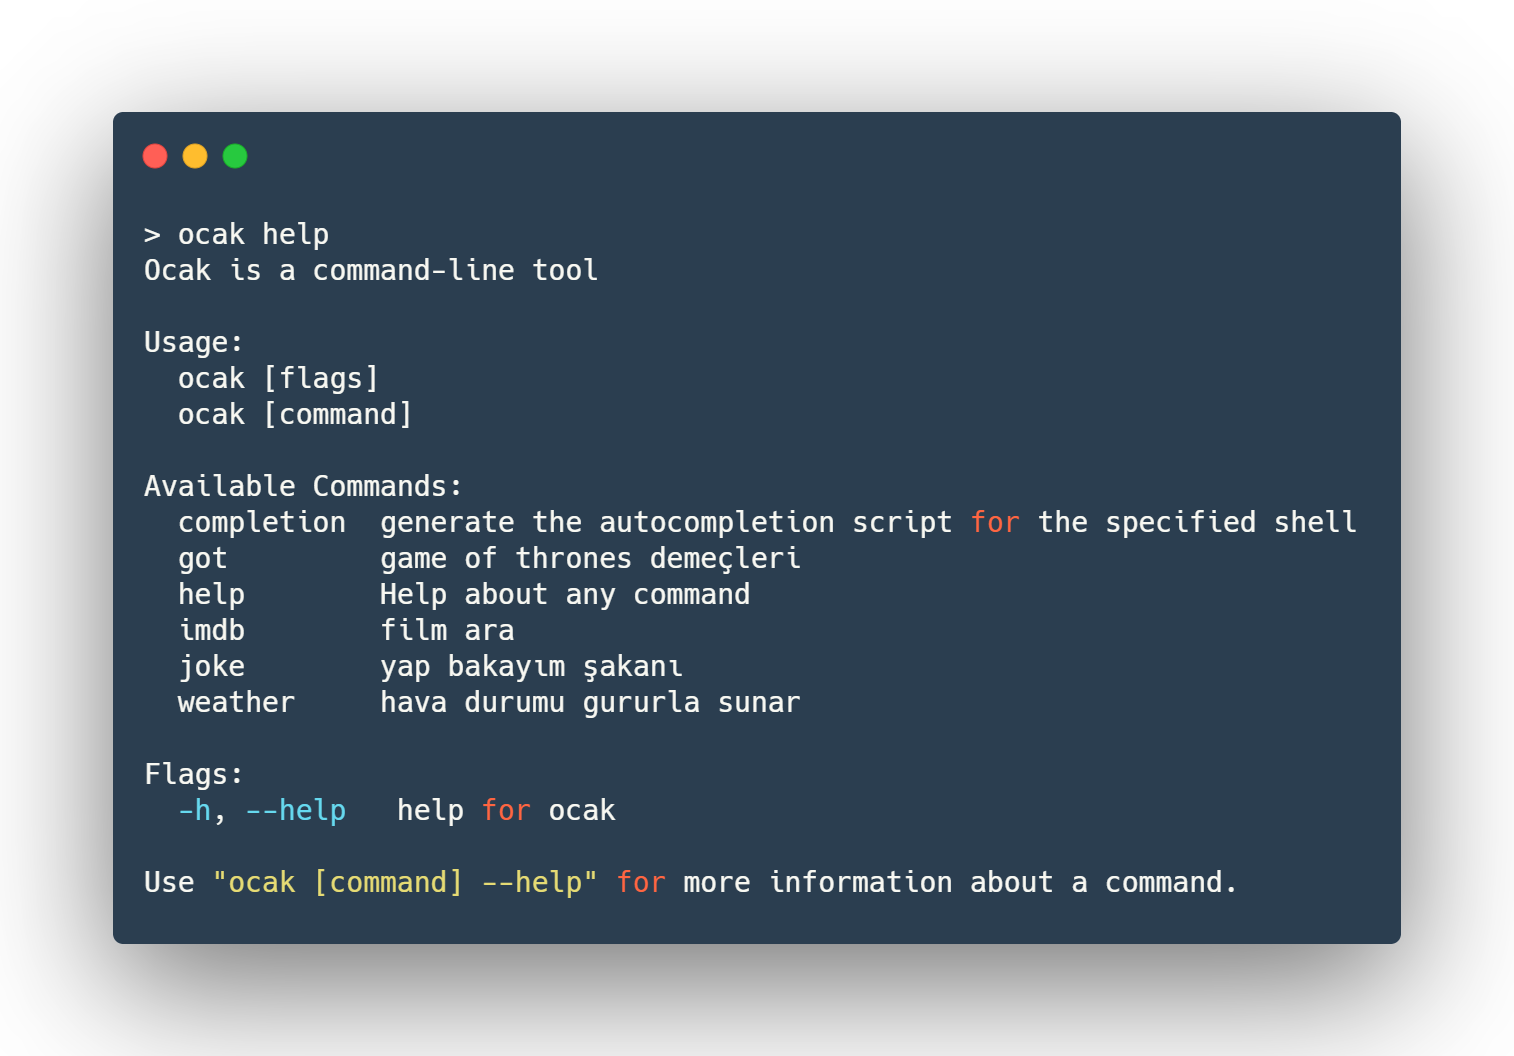
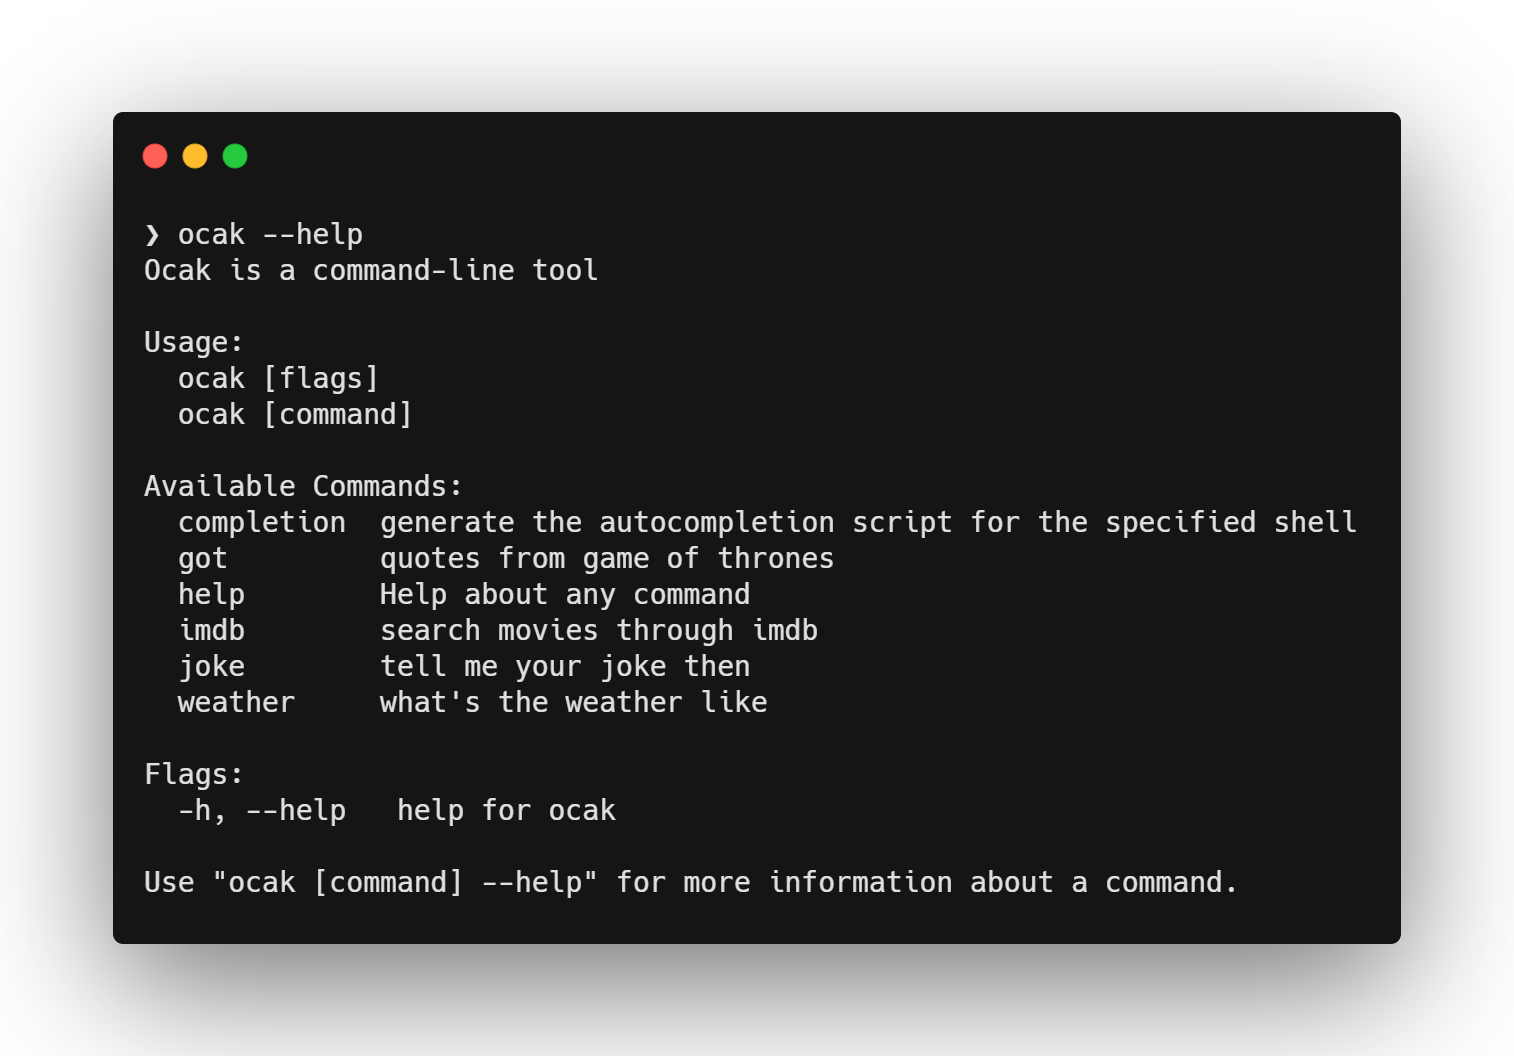
change turkish texts to englis

diff --git a/cmd/got/got.go b/cmd/got/got.go
@@ -13,7 +13,7 @@ import (
 
 var imdbCmd = &cobra.Command{
 	Use:   "got",
-	Short: "game of thrones demeçleri",
+	Short: "quotes from game of thrones",
 	Run: func(cmd *cobra.Command, args []string) {
 
 		if err := randomQuote(); err != nil {
@@ -39,7 +39,7 @@ type Character struct {
 }
 
 func (q Quote) String() string {
-	return fmt.Sprintf(`%v demiş ki: %v`, q.Character.Name, q.Sentence)
+	return fmt.Sprintf(`%v said: %v`, q.Character.Name, q.Sentence)
 }
 
 func randomQuote() error {

diff --git a/cmd/weather/weather.go b/cmd/weather/weather.go
@@ -14,7 +14,7 @@ var city string
 // weatherCmd represents the weather command
 var weatherCmd = &cobra.Command{
 	Use:   "weather",
-	Short: "hava durumu gururla sunar",
+	Short: "what's the weather like",
 	Run: func(cmd *cobra.Command, args []string) {
 		if err := GetWeatherData(city); err != nil {
 			printer.Error(os.Stderr, err.Error())

diff --git a/cmd/imdb/imdb.go b/cmd/imdb/imdb.go
@@ -12,7 +12,7 @@ var movie string
 
 var imdbCmd = &cobra.Command{
 	Use:   "imdb",
-	Short: "film ara",
+	Short: "search movies through imdb",
 	Run: func(cmd *cobra.Command, args []string) {
 		if err := findMovie(movie); err != nil {
 			printer.Error(os.Stdout, err.Error())

diff --git a/cmd/joke/joke.go b/cmd/joke/joke.go
@@ -13,7 +13,7 @@ import (
 
 var imdbCmd = &cobra.Command{
 	Use:   "joke",
-	Short: "yap bakayım şakanı",
+	Short: "tell me your joke then",
 	Run: func(cmd *cobra.Command, args []string) {
 		if err := randomJoke(); err != nil {
 			printer.Error(os.Stderr, "%v\n", err)
